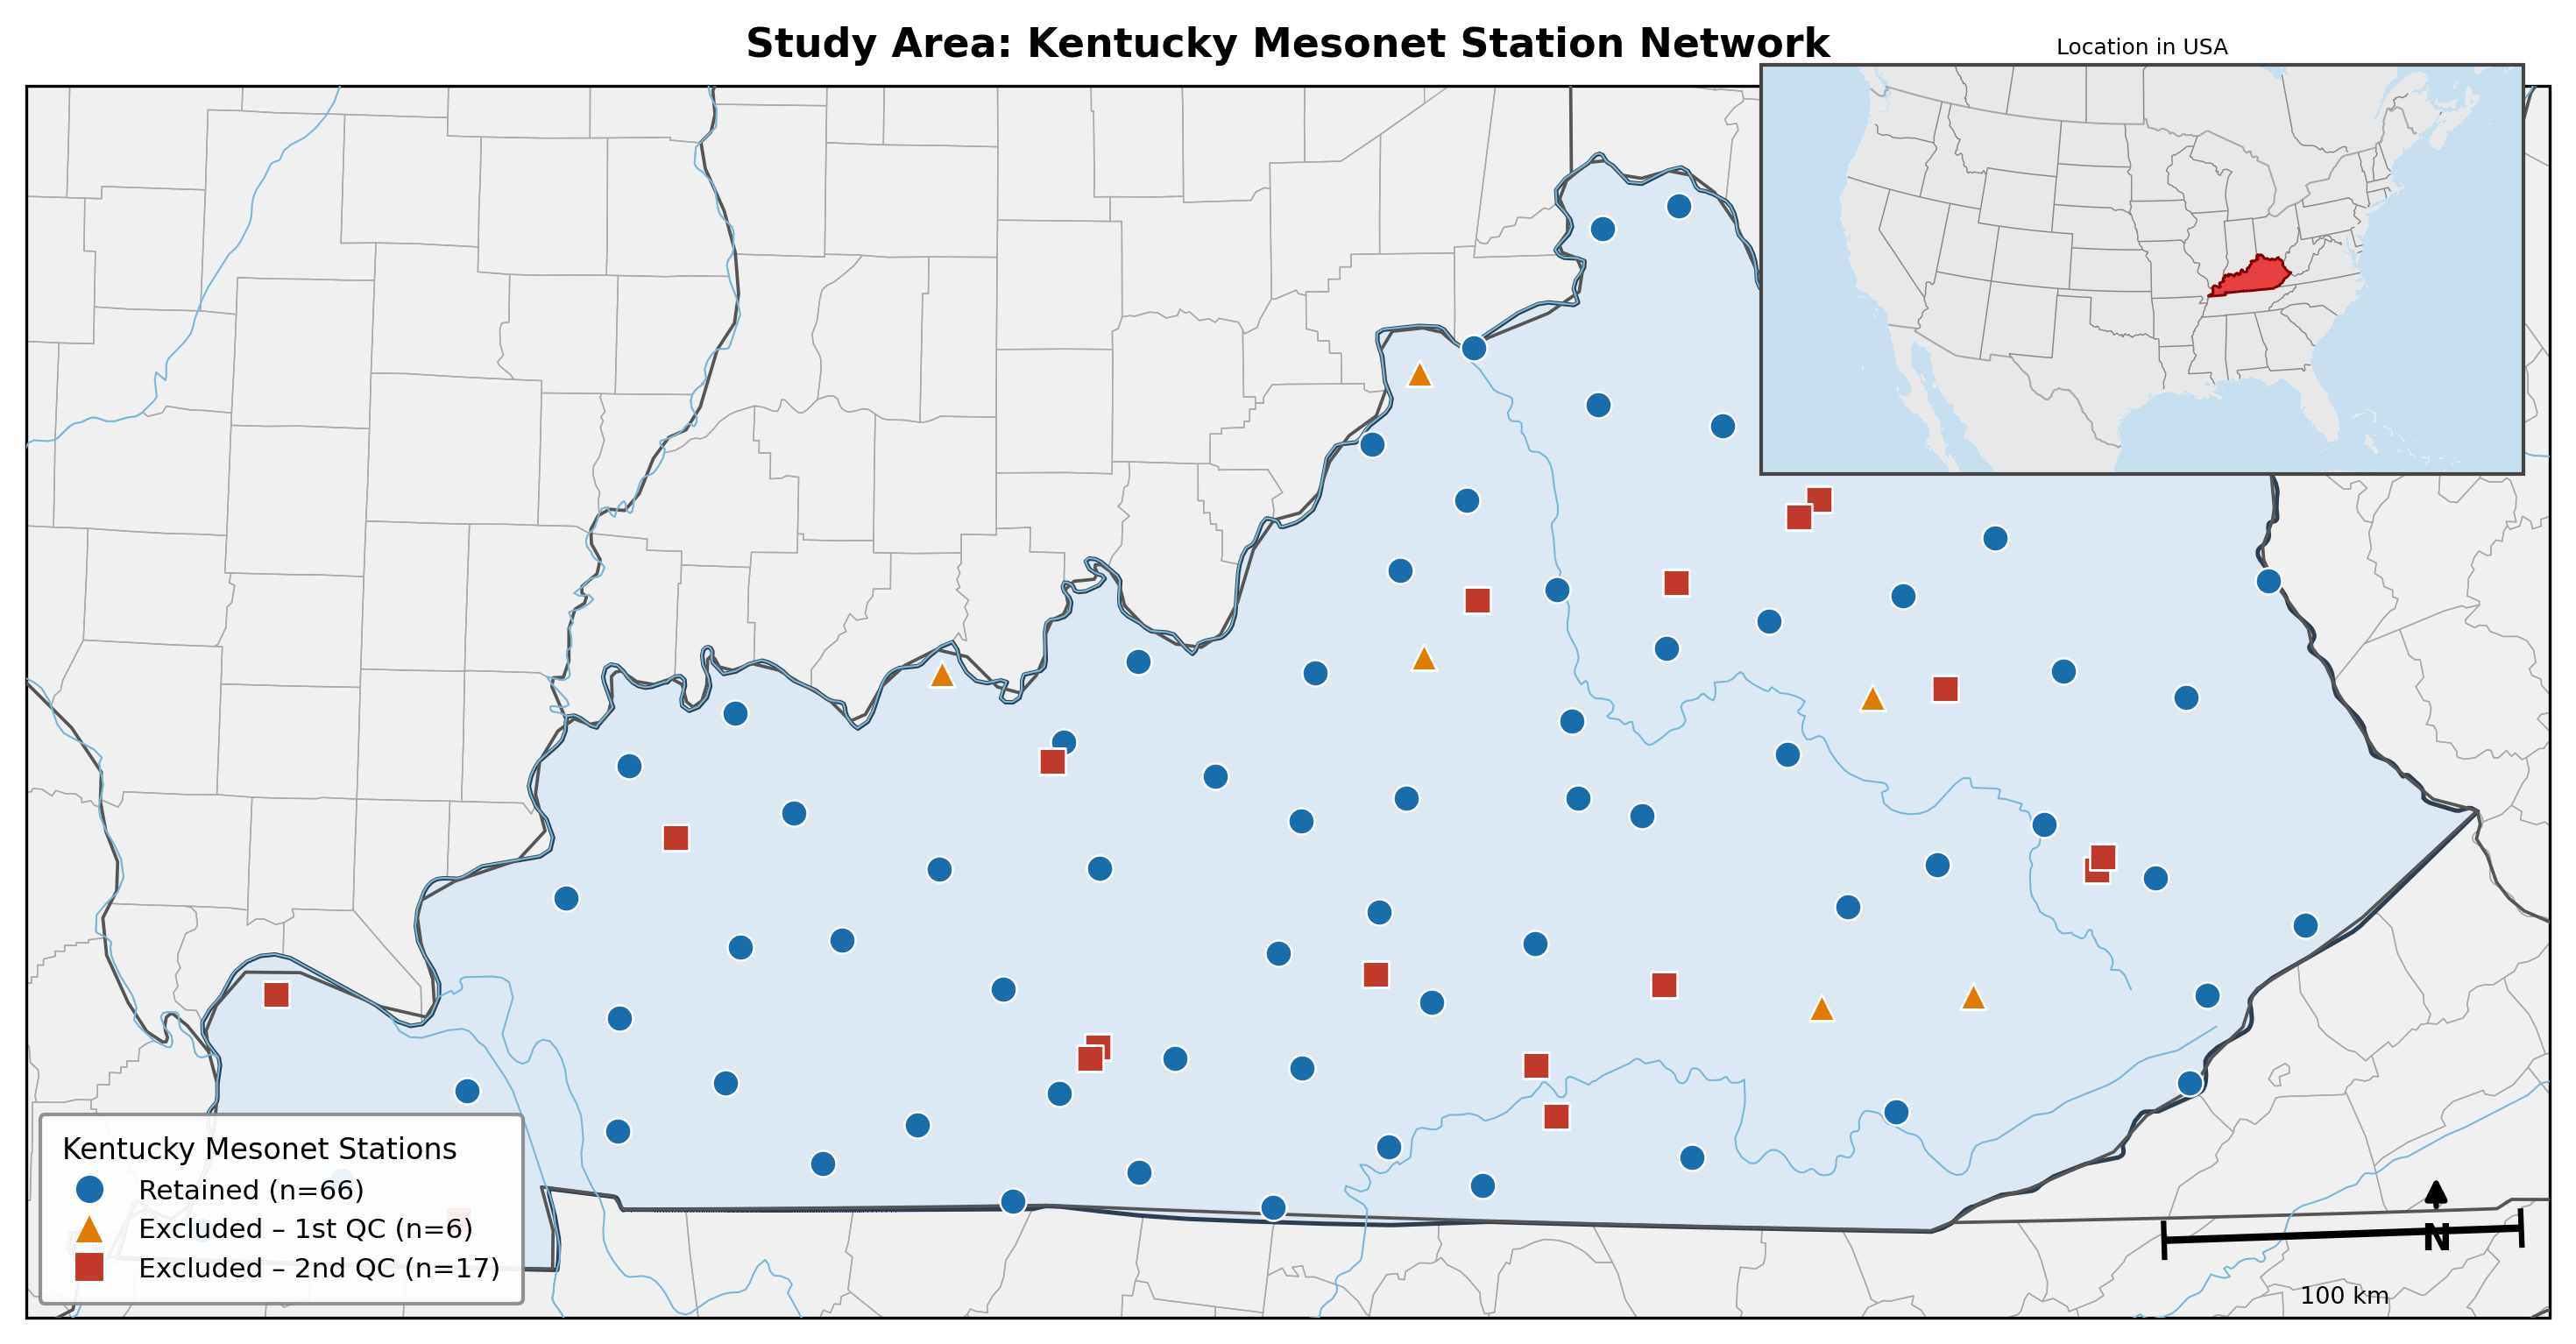
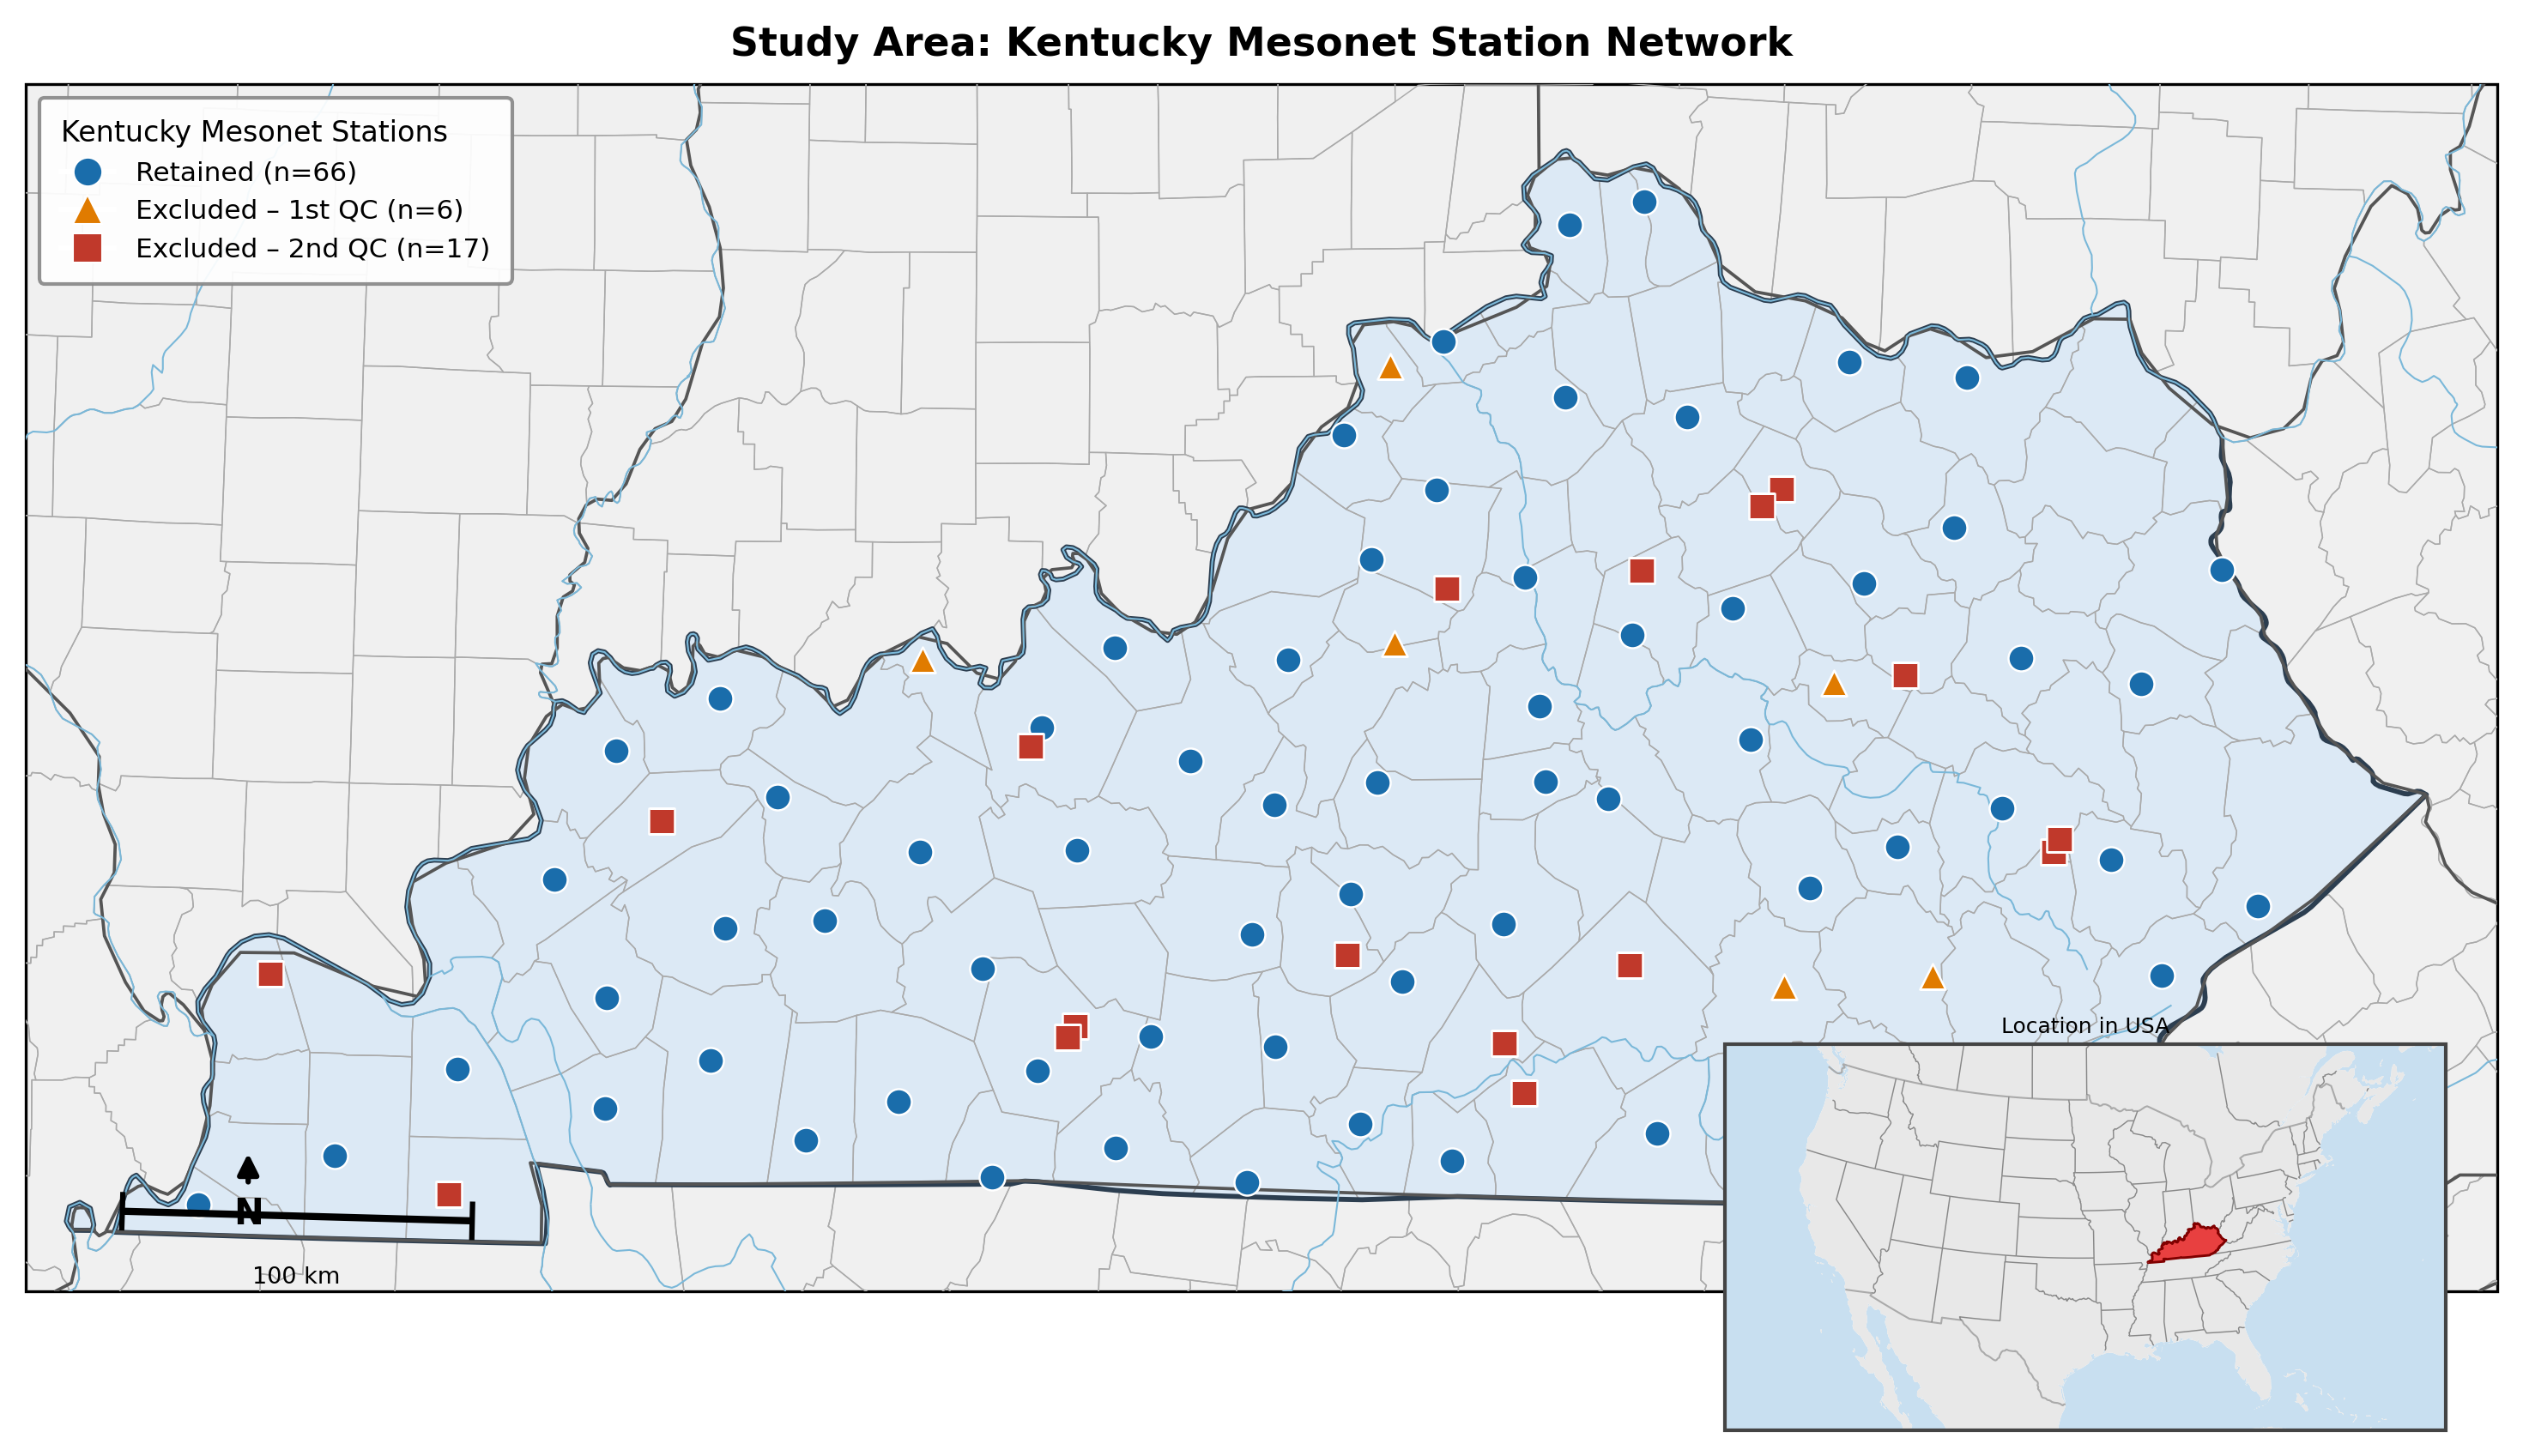
Fix inset/legend overlap and add Kentucky county boundaries
- Move CONUS inset from upper-right (over eastern KY) to lower-right
  (Tennessee territory) to eliminate overlap with Kentucky's upper portion
- Move legend from lower-left (over western KY) to upper-left
  (Indiana/Illinois territory) to clear Kentucky's lower portion
- Draw Kentucky fill before county layer so county edges render on top
  inside Kentucky (previously KY fill at same zorder painted over them)
- Relocate scale bar and north arrow to lower-left to match new layout

https://claude.ai/code/session_01CtjfYmu2Tk14znrvrhKYF2

diff --git a/generate_map.py b/generate_map.py
@@ -54,49 +54,46 @@ ax.set_extent([-89.7, -81.8, 36.35, 39.25], crs=DATA_CRS)
 ax.add_feature(cfeature.OCEAN.with_scale("50m"), facecolor=C_OCEAN, zorder=0)
 ax.add_feature(cfeature.LAND.with_scale("50m"),  facecolor=C_NEIGHBOR, zorder=1)
 
-# County boundaries (light grey)
-counties = cfeature.NaturalEarthFeature(
-    "cultural", "admin_2_counties", "10m",
-    facecolor="none", edgecolor="#aaaaaa", linewidth=0.35
-)
-ax.add_feature(counties, zorder=2)
-
-# State boundaries
-states = cfeature.NaturalEarthFeature(
-    "cultural", "admin_1_states_provinces_lines", "50m",
-    facecolor="none", edgecolor="#555555", linewidth=0.9
-)
-ax.add_feature(states, zorder=3)
-
-# Kentucky polygon filled distinctly
-ky_shape = cfeature.NaturalEarthFeature(
-    "cultural", "admin_1_states_provinces", "10m",
-    facecolor="none", edgecolor="none"
-)
-# Use shapereader to isolate Kentucky
+# Use shapereader to isolate Kentucky (needed early for zorder sequencing)
 shpfile = natural_earth(resolution="10m", category="cultural",
                         name="admin_1_states_provinces")
 reader  = Reader(shpfile)
 ky_geom = [rec.geometry for rec in reader.records()
            if rec.attributes.get("name") == "Kentucky"]
 
-from cartopy.mpl.patch import geos_to_path
-import matplotlib.patches as patches
-from matplotlib.collections import PathCollection
-
+# Kentucky fill drawn BEFORE counties so county lines render on top inside KY
 for geom in ky_geom:
     ax.add_geometries([geom], DATA_CRS, facecolor=C_KY_FILL,
-                      edgecolor=C_KY_EDGE, linewidth=1.2, zorder=2)
+                      edgecolor="none", linewidth=0, zorder=2)
 
-# Rivers (optional detail)
+# County boundaries — drawn after KY fill so edges are visible inside KY too
+counties = cfeature.NaturalEarthFeature(
+    "cultural", "admin_2_counties", "10m",
+    facecolor="none", edgecolor="#aaaaaa", linewidth=0.35
+)
+ax.add_feature(counties, zorder=3)
+
+# Kentucky border on top of counties
+for geom in ky_geom:
+    ax.add_geometries([geom], DATA_CRS, facecolor="none",
+                      edgecolor=C_KY_EDGE, linewidth=1.4, zorder=4)
+
+# State boundaries
+states = cfeature.NaturalEarthFeature(
+    "cultural", "admin_1_states_provinces_lines", "50m",
+    facecolor="none", edgecolor="#555555", linewidth=0.9
+)
+ax.add_feature(states, zorder=4)
+
+# Rivers
 rivers = cfeature.NaturalEarthFeature(
     "physical", "rivers_lake_centerlines", "10m",
     facecolor="none", edgecolor="#7ab8d9", linewidth=0.5
 )
-ax.add_feature(rivers, zorder=3)
+ax.add_feature(rivers, zorder=5)
 
 # --- station scatter plots ---------------------------------------------------
-common_kw = dict(transform=DATA_CRS, zorder=5, linewidths=0.6,
+common_kw = dict(transform=DATA_CRS, zorder=6, linewidths=0.6,
                  edgecolors="white")
 
 ax.scatter(retained["Lon"], retained["Lat"],
@@ -124,9 +121,10 @@ legend_elements = [
            markeredgewidth=0.5, markersize=8),
 ]
 
+# Place legend in the upper-left (Indiana/Illinois territory, clear of Kentucky)
 leg = ax.legend(
     handles=legend_elements,
-    loc="lower left",
+    loc="upper left",
     fontsize=7.5,
     framealpha=0.92,
     edgecolor="#888888",
@@ -137,28 +135,26 @@ leg = ax.legend(
 )
 leg._legend_box.align = "left"
 
-# --- scale bar ---------------------------------------------------------------
-# Simple manual scale bar at bottom-right
-from cartopy.mpl.gridliner import LONGITUDE_FORMATTER, LATITUDE_FORMATTER
-scale_lon_start = -83.0
+# --- scale bar (lower-left, over Missouri/Tennessee territory) ---------------
+scale_lon_start = -89.4
 scale_lat = 36.55
 scale_km = 100  # km
 deg_per_km = 1 / 111.0
 scale_lon_end = scale_lon_start + scale_km * deg_per_km / np.cos(np.radians(scale_lat))
 
 ax.plot([scale_lon_start, scale_lon_end], [scale_lat, scale_lat],
-        color="black", linewidth=2, transform=DATA_CRS, zorder=6,
+        color="black", linewidth=2, transform=DATA_CRS, zorder=7,
         solid_capstyle="butt")
 ax.plot([scale_lon_start, scale_lon_start], [scale_lat - 0.04, scale_lat + 0.04],
-        color="black", linewidth=1.5, transform=DATA_CRS, zorder=6)
+        color="black", linewidth=1.5, transform=DATA_CRS, zorder=7)
 ax.plot([scale_lon_end, scale_lon_end], [scale_lat - 0.04, scale_lat + 0.04],
-        color="black", linewidth=1.5, transform=DATA_CRS, zorder=6)
+        color="black", linewidth=1.5, transform=DATA_CRS, zorder=7)
 ax.text((scale_lon_start + scale_lon_end) / 2, scale_lat - 0.12,
         "100 km", ha="center", va="top", fontsize=6.5,
-        transform=DATA_CRS, zorder=6)
+        transform=DATA_CRS, zorder=7)
 
-# --- north arrow -------------------------------------------------------------
-ax.annotate("N", xy=(0.955, 0.12), xytext=(0.955, 0.055),
+# --- north arrow (lower-left, just right of scale bar) ----------------------
+ax.annotate("N", xy=(0.09, 0.12), xytext=(0.09, 0.055),
             xycoords="axes fraction",
             fontsize=10, ha="center", fontweight="bold",
             arrowprops=dict(arrowstyle="-|>", color="black",
@@ -170,8 +166,8 @@ ax.set_title("Study Area: Kentucky Mesonet Station Network",
              fontsize=11, fontweight="bold", pad=8, fontfamily=FONT)
 
 # ── inset: CONUS ─────────────────────────────────────────────────────────────
-# Position: upper-right corner
-ax_inset = fig.add_axes([0.68, 0.62, 0.29, 0.24],
+# Position: lower-right corner (Tennessee territory, well below Kentucky)
+ax_inset = fig.add_axes([0.68, 0.09, 0.28, 0.22],
                         projection=ccrs.LambertConformal(
                             central_longitude=-96, central_latitude=39))
 